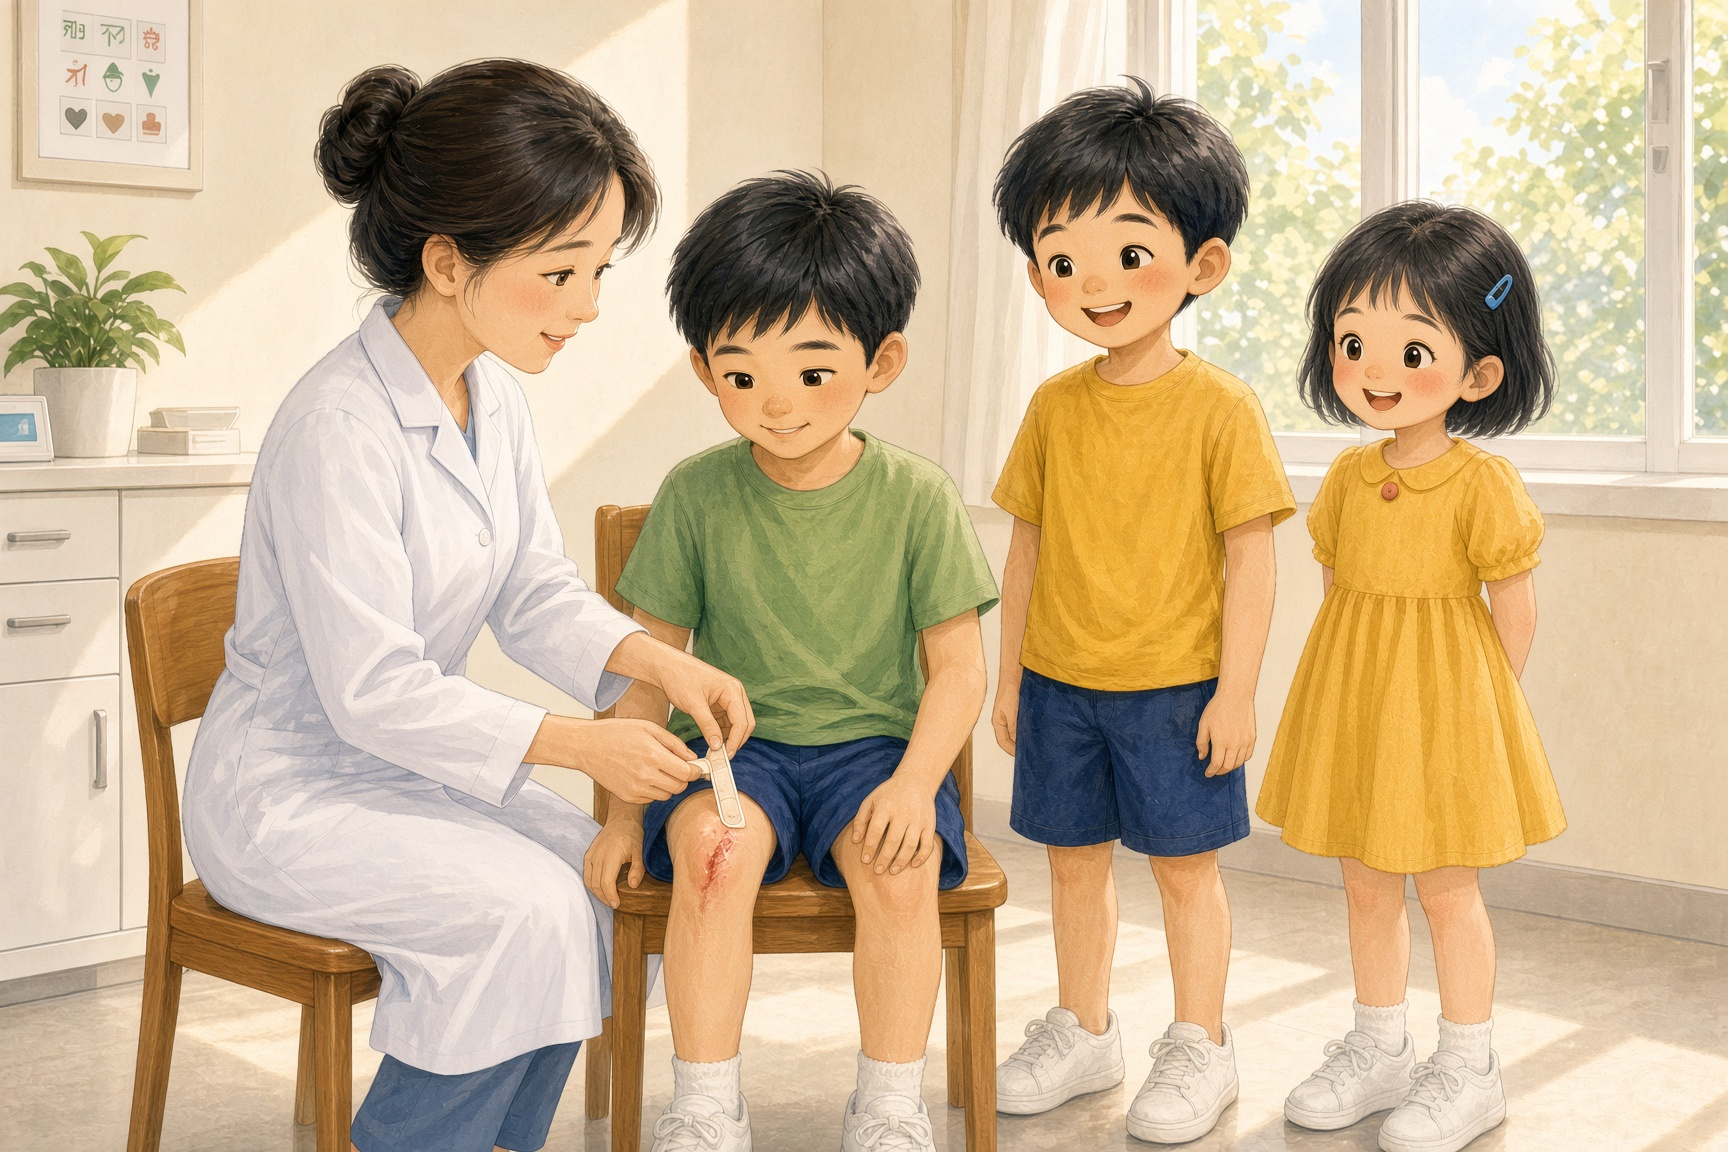
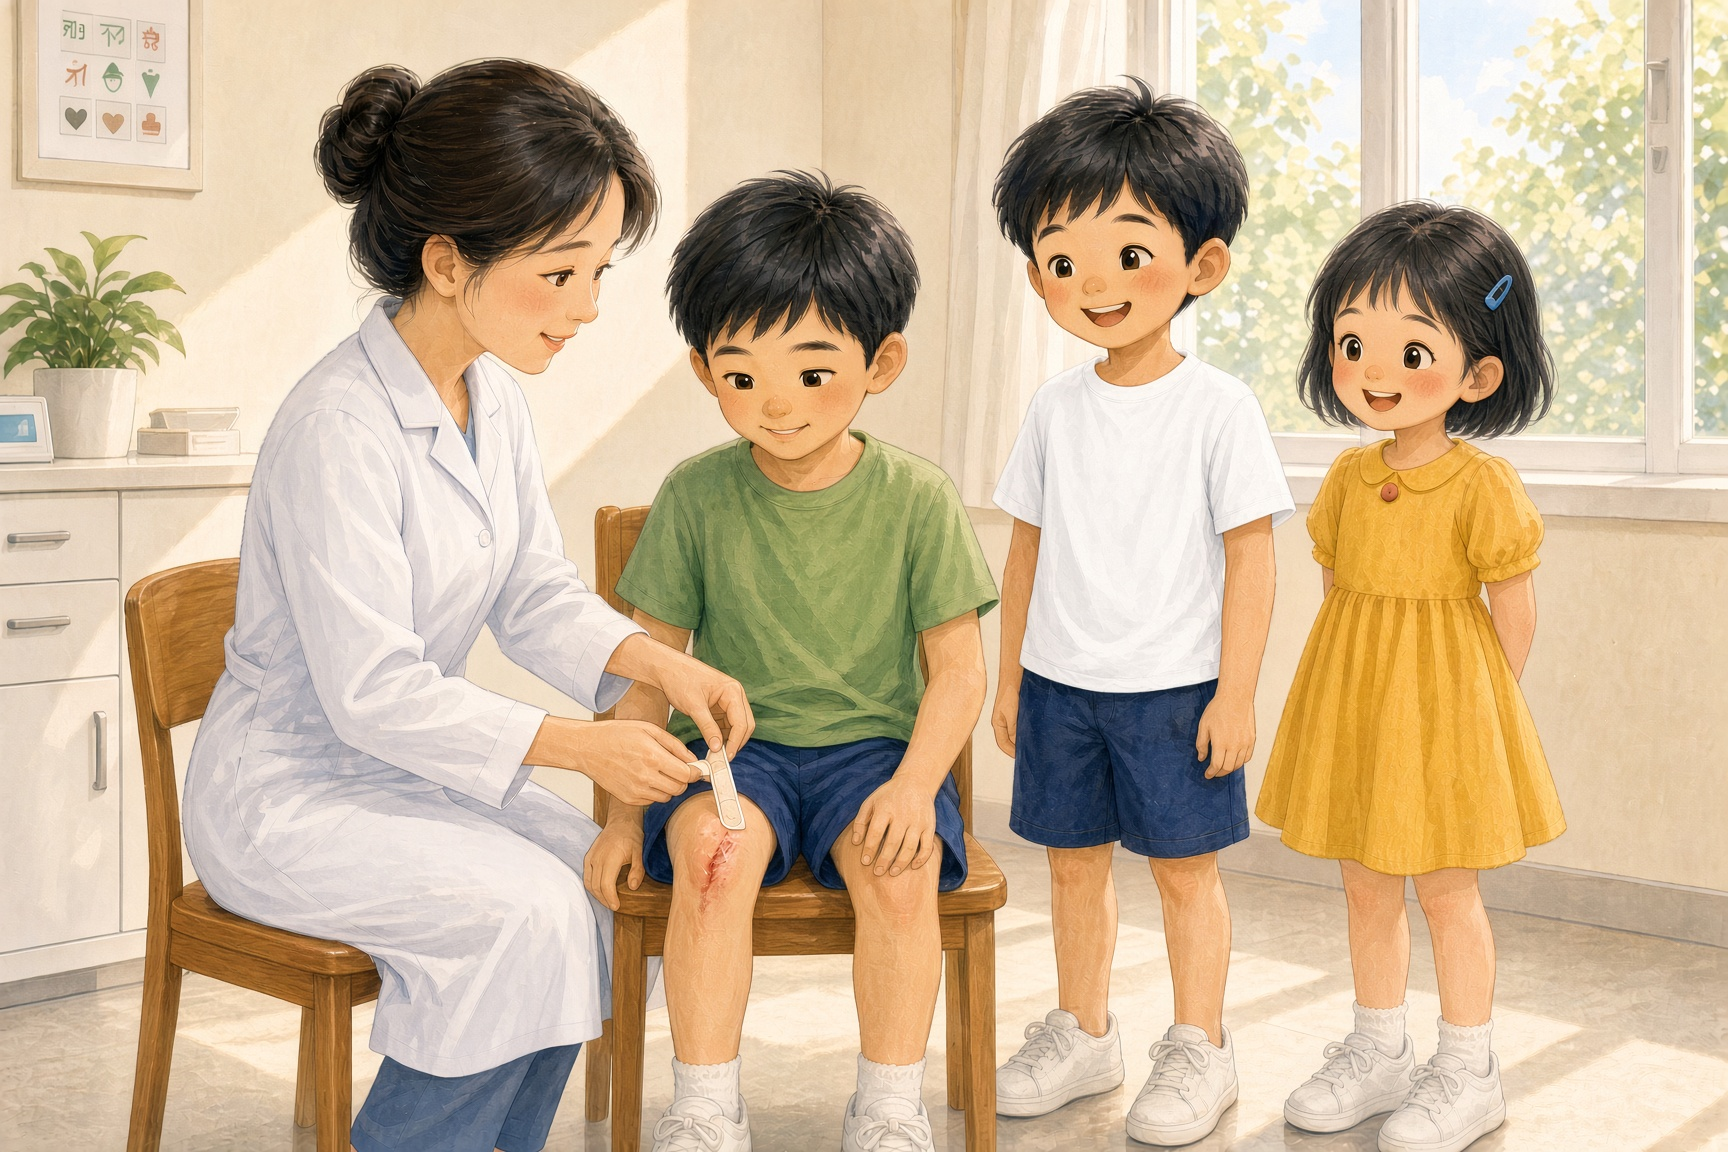
Make Lele's shirt white in the clinic panel

diff --git a/stories.js b/stories.js
@@ -105,7 +105,7 @@ window.STORIES = [
       {
         caption: "護士幫同學搽藥，同學多謝樂樂。",
         hint: "後來誰來幫忙？結果怎樣？",
-        image: "comics/fall/4.jpg?v=3",
+        image: "comics/fall/4.jpg?v=4",
       },
     ],
     starters: [
